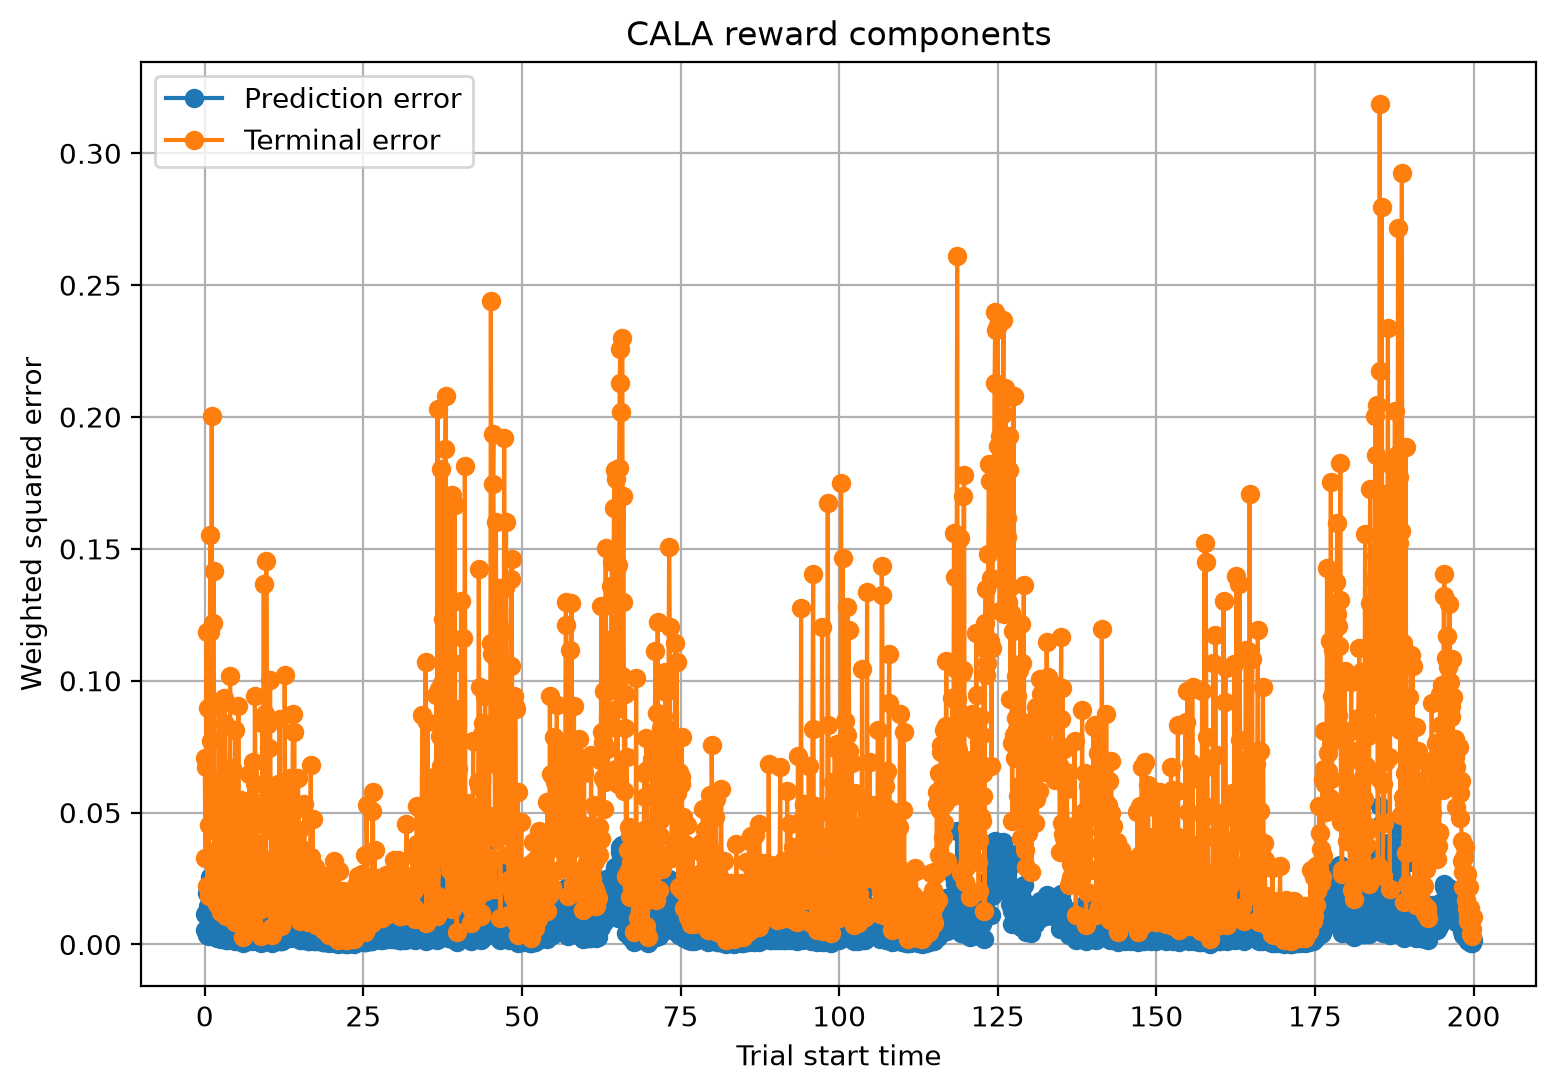
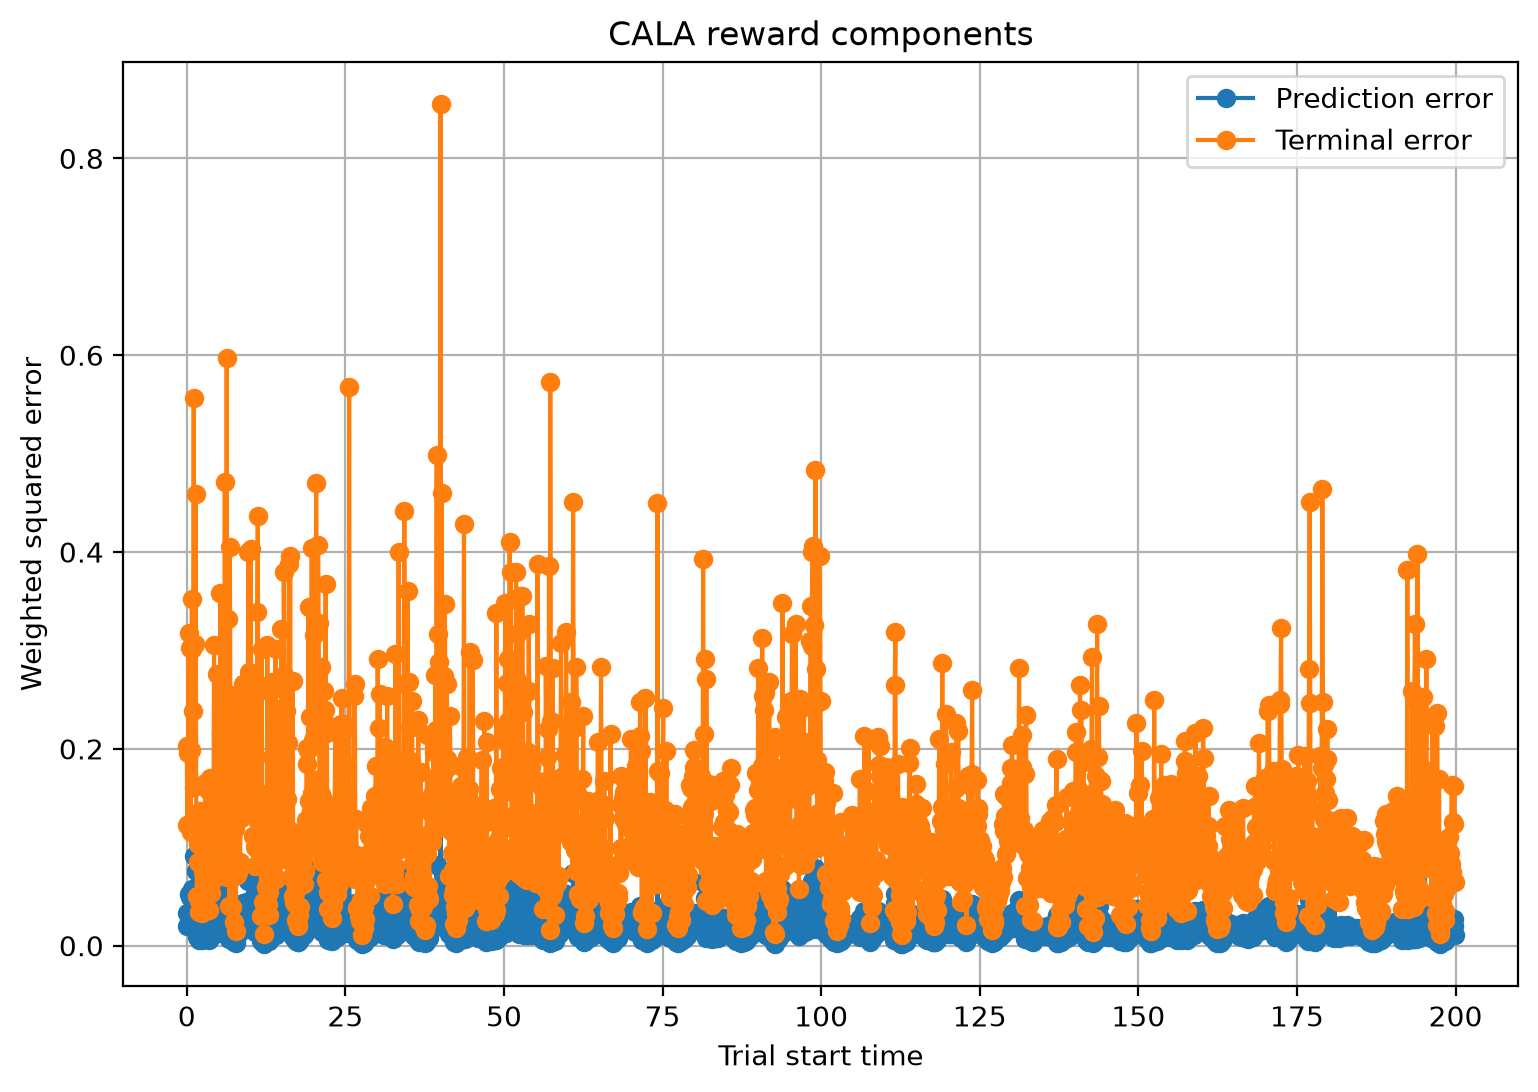
added prediction_infer which works ok

diff --git a/cala.py b/cala.py
@@ -558,6 +558,7 @@ class HorizonManager():
         self.state_weights      = np.diag(mpc.Q) 
         #self.effort_weights     = np.diag(mpc.R)
         self.terminal_weights   = np.diag(mpc.P)
+        self.B                  = np.asarray(mpc.B).copy()
 
 
         # reward configs
@@ -567,11 +568,18 @@ class HorizonManager():
         # else:
         #     self.reward_period = cfg_hm["reward_period"]
 
-        self.reward_period = self.replan_trigger 
+        #self.reward_period = self.replan_trigger 
+        self.reward_period = cfg_hm["reward_period"]
+        if self.reward_period > 1:
+            raise ValueError(f"reward_period must be set to 1 (for now)")
+        if mpc.replan_mode != 'receding_horizon':
+            raise ValueError(f"mpc must be set to receding horizon control (for now)")
+   
 
-        if self.reward_mode == 'prediction' and mpc.replan_mode == 'receding_horizon':
-            raise ValueError(f"Cannot use prediction-error based RL reward when MPC replan_mode is receding horizon. Select horizon (h) or control (m) horizon.")
+        #if self.reward_mode == 'prediction' and mpc.replan_mode == 'receding_horizon':
+        #    raise ValueError(f"Cannot use prediction-error based RL reward when MPC replan_mode is receding horizon. Select horizon (h) or control (m) horizon.")
         
+
 
         self.compensation_weight = cfg_hm["compensation_weight"]
 
@@ -664,34 +672,51 @@ class HorizonManager():
 
     def _compute_reward(self):
 
-        actual = np.asarray(self.actual, dtype=float)
-        predicted = np.asarray(self.predicted, dtype=float)
+        # actual = np.asarray(self.actual, dtype=float)
+        # predicted = np.asarray(self.predicted, dtype=float)
+
+        # tighter
+        actual = np.asarray(self.actual, dtype=float).reshape(-1, self.n_states)
+        predicted = np.asarray(self.predicted,dtype=float).reshape(-1, self.n_states)
+        # number of valid state comparisons in this trial
+        n = min(actual.shape[0], predicted.shape[0])
+        if n == 0:
+            raise RuntimeError("Cannot compute reward: no actual/predicted states available.")
+        actual = actual[:n, :]
+        predicted = predicted[:n, :]
+
+
         error = actual - predicted
-        discounts = self.discount ** np.arange(self.h)
+        discounts = self.discount ** np.arange(n)
 
         weighted_error = self.state_weights.reshape(1, self.n_states) * error**2
         step_error = np.sum(weighted_error, axis=1)
-        #prediction_error = float(np.sum(discounts * step_error))
         prediction_error = float(np.sum(discounts * step_error)/ (np.sum(discounts) + 1e-12))
-
-
         terminal_error = float(np.sum(error[-1]**2 * self.terminal_weights))
 
         if self.reward_mode == "prediction":
 
             cost = prediction_error 
 
-        elif self.reward_mode == 'compensation':
+        elif self.reward_mode == 'idealized':
 
             disturbance_error = self.d_cala - self.d_true
             cost = (np.dot(disturbance_error, disturbance_error)+ self.compensation_weight* np.dot(self.d_cala, self.d_cala))
+
+        # infer the equivalent input-channel prediction residual B*e_x = d_true - d_cala
+        elif self.reward_mode == 'prediction_infer':
+
+            disturbance_error = np.linalg.lstsq(self.B, error.T, rcond=None)[0].T
+            step_error = np.sum(disturbance_error**2,axis=1)
+            cost = float(np.sum(discounts * step_error)/ (np.sum(discounts) + 1e-12) )
 
         else:
 
             raise ValueError(f"invalid reward mode: {self.reward_mode}")
 
-
         reward = -cost
+        #reward = np.exp(-cost / 10)
+        #reward = -np.log1p(cost)
 
         return reward, prediction_error, terminal_error
 
